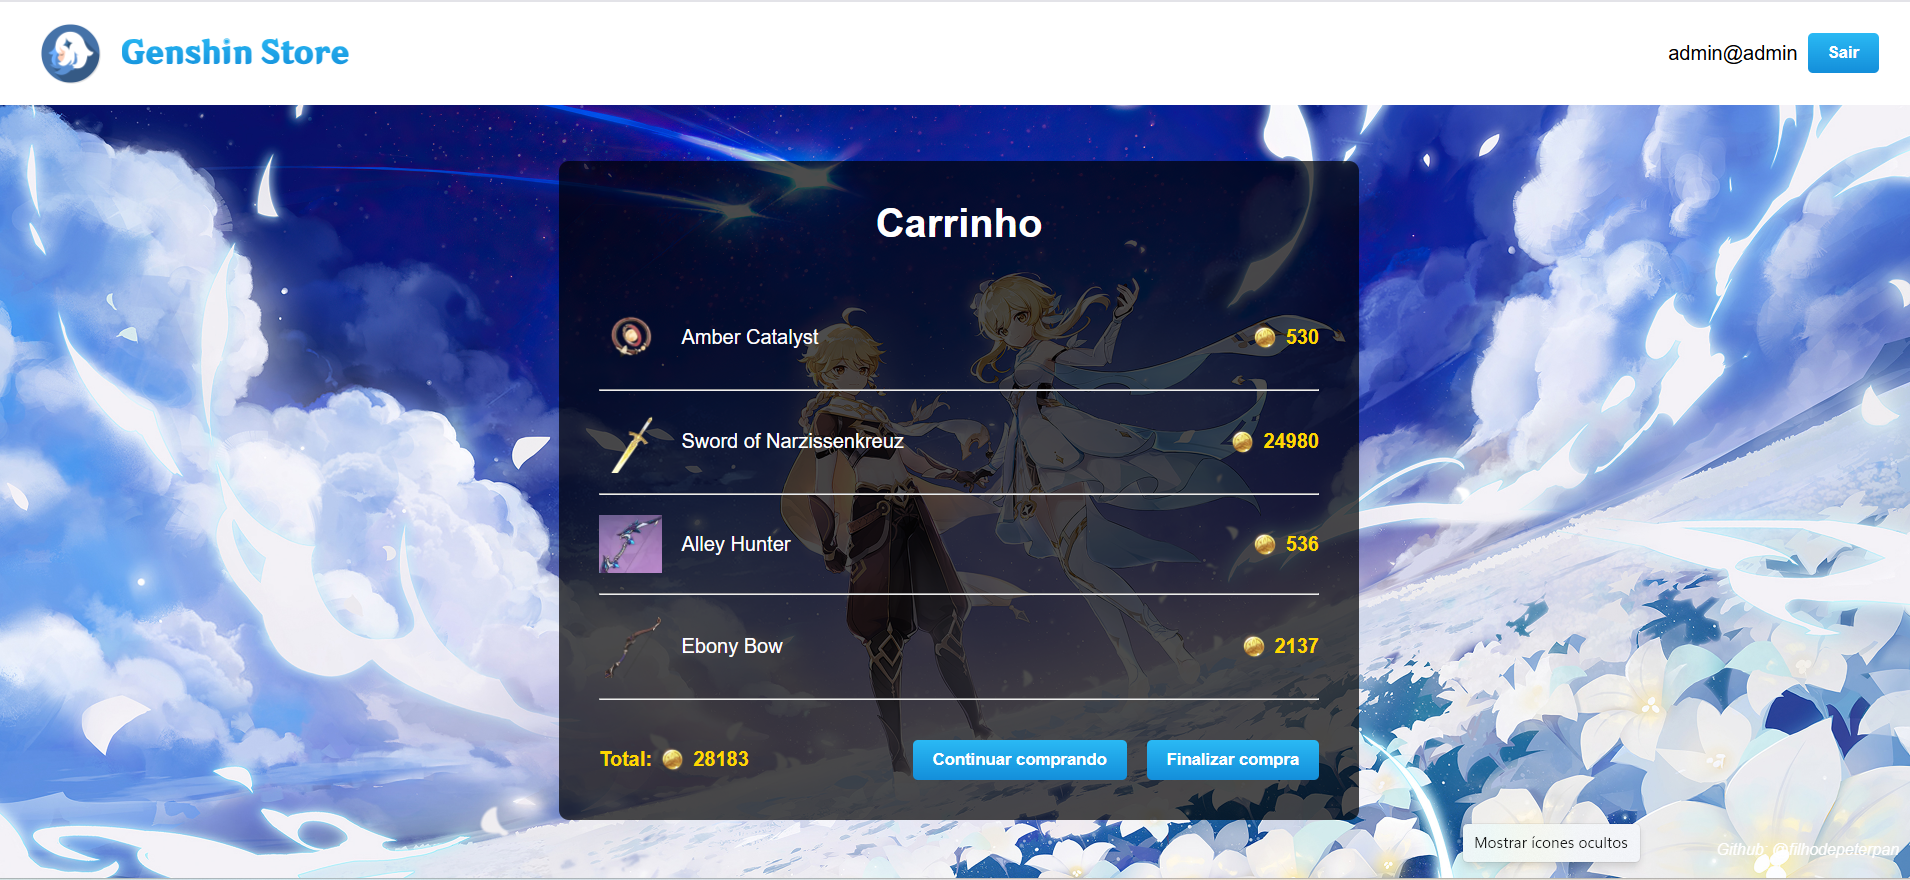
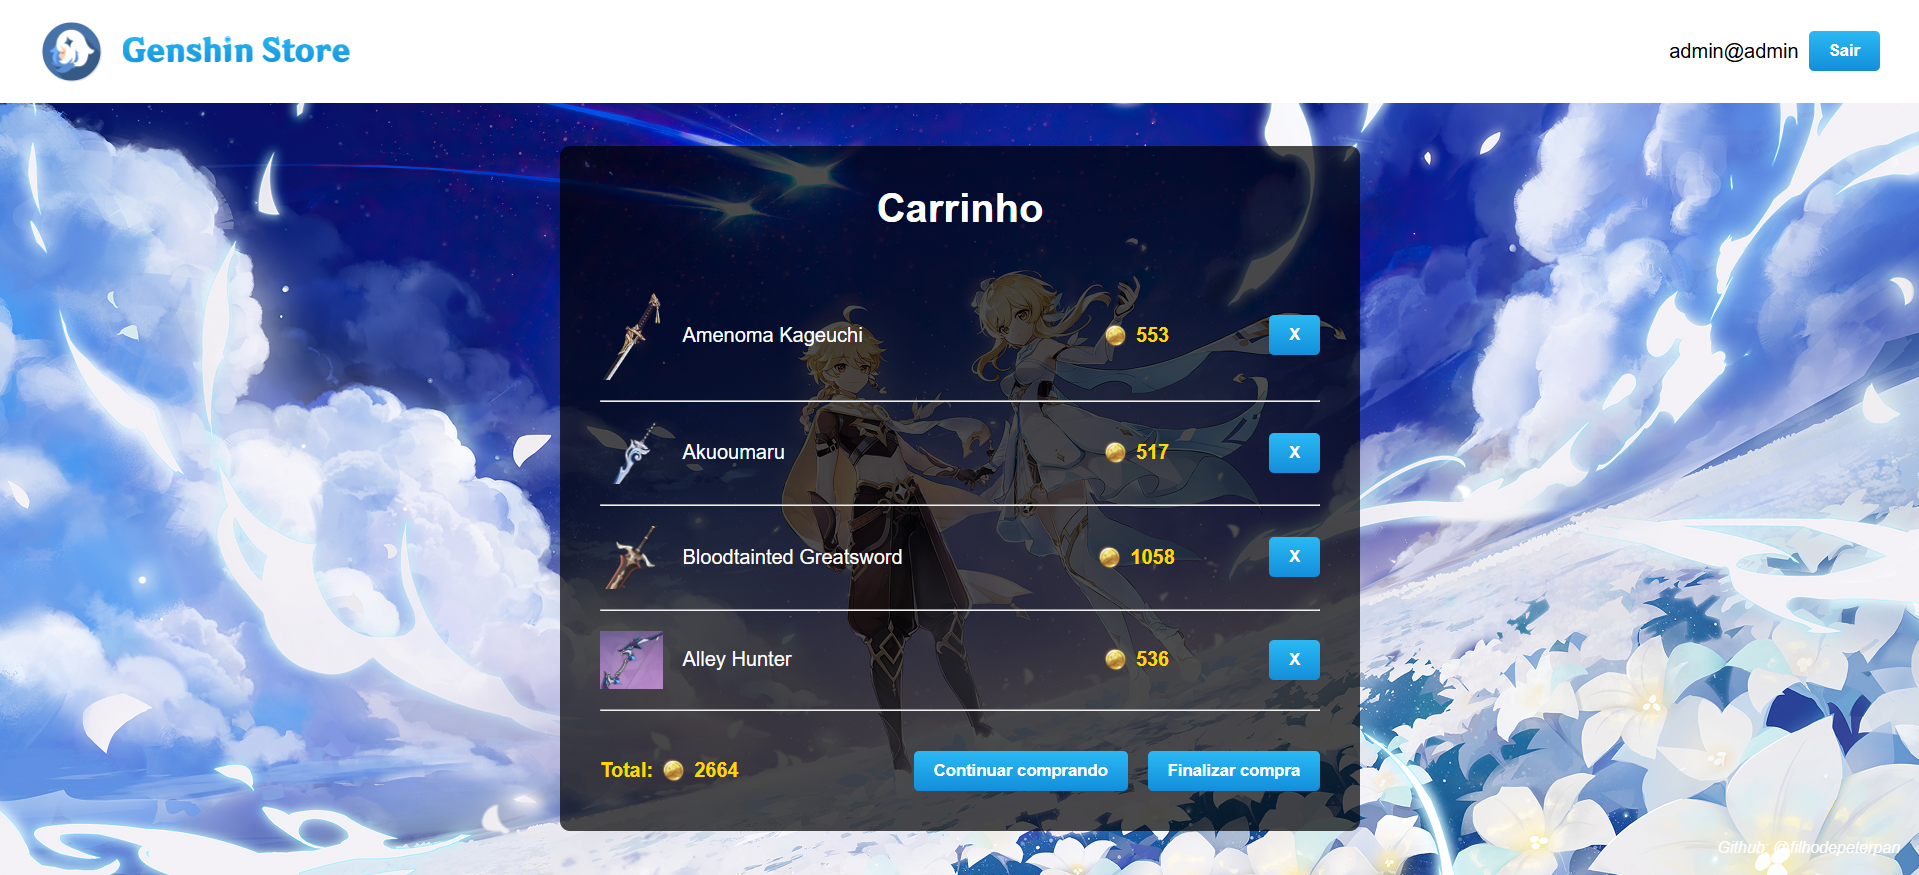
adicionando opcao de remover arma do carrinho

diff --git a/css/global.css b/css/global.css
@@ -238,6 +238,7 @@ main{
     align-items: center;
     gap: 1rem;
     margin: 1rem 0;
+    min-width: 20rem;
 }
 
 .footer-carrinho{

diff --git a/pages/carrinho.php b/pages/carrinho.php
@@ -11,6 +11,19 @@
     $totalMora = 0;
     $carrinhoVazio = empty($carrinho);
 
+    if($_SERVER['REQUEST_METHOD'] === 'POST'){
+
+        if(isset($_POST['remover'])){
+            $index = $_POST['remover'];
+
+            unset($_SESSION['carrinho'][$index]); // removendo item
+            $_SESSION['carrinho'] = array_values($_SESSION['carrinho']); // reorganizando os indices pra evitar conflito
+
+            header('Location: carrinho.php');
+            exit();
+        }
+    }
+
 ?>
 
 <!DOCTYPE html>
@@ -49,7 +62,7 @@
                 </div>
 
             <?php else: ?>
-                <?php foreach($_SESSION['carrinho'] as $item): ?>
+                <?php foreach($_SESSION['carrinho'] as $index => $item): ?>
                     <div class="linha">
                         <div class="item">
                             <img src="<?= $item['imagem'] ?>" alt="<?= $item['nome'] ?>" width="50">
@@ -61,6 +74,11 @@
                             <span><?= $item['mora'] ?></span>
                             <?php $totalMora += $item['mora']; ?>
                         </div>
+
+                        <form action="#" method="POST">
+                            <input type="hidden" name="remover" value="<?= $index ?>">
+                            <button type="submit">X</button>
+                        </form>
                     </div>
                     <hr>
                 <?php endforeach; ?>

diff --git a/README.md b/README.md
@@ -99,4 +99,4 @@ Acesso permitido apenas para usuários logados
 **Desafios Extras (Opcional)**
 - Permitir remover itens do carrinho
 - Evitar duplicação de produtos no carrinho
-- Exibir quantidade de cada item
+- Exibir quantidade de cada item!
